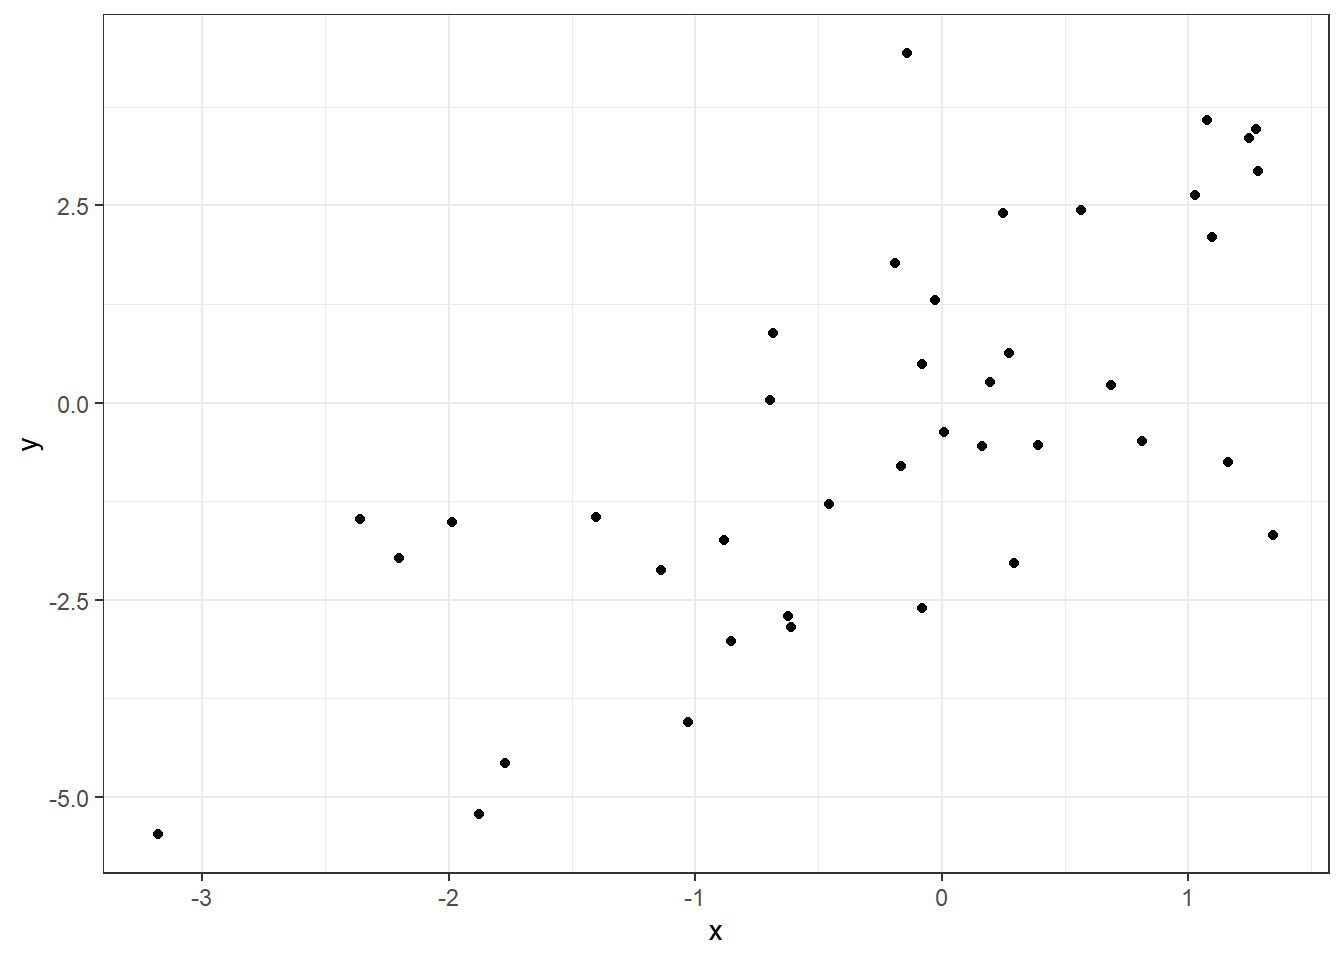
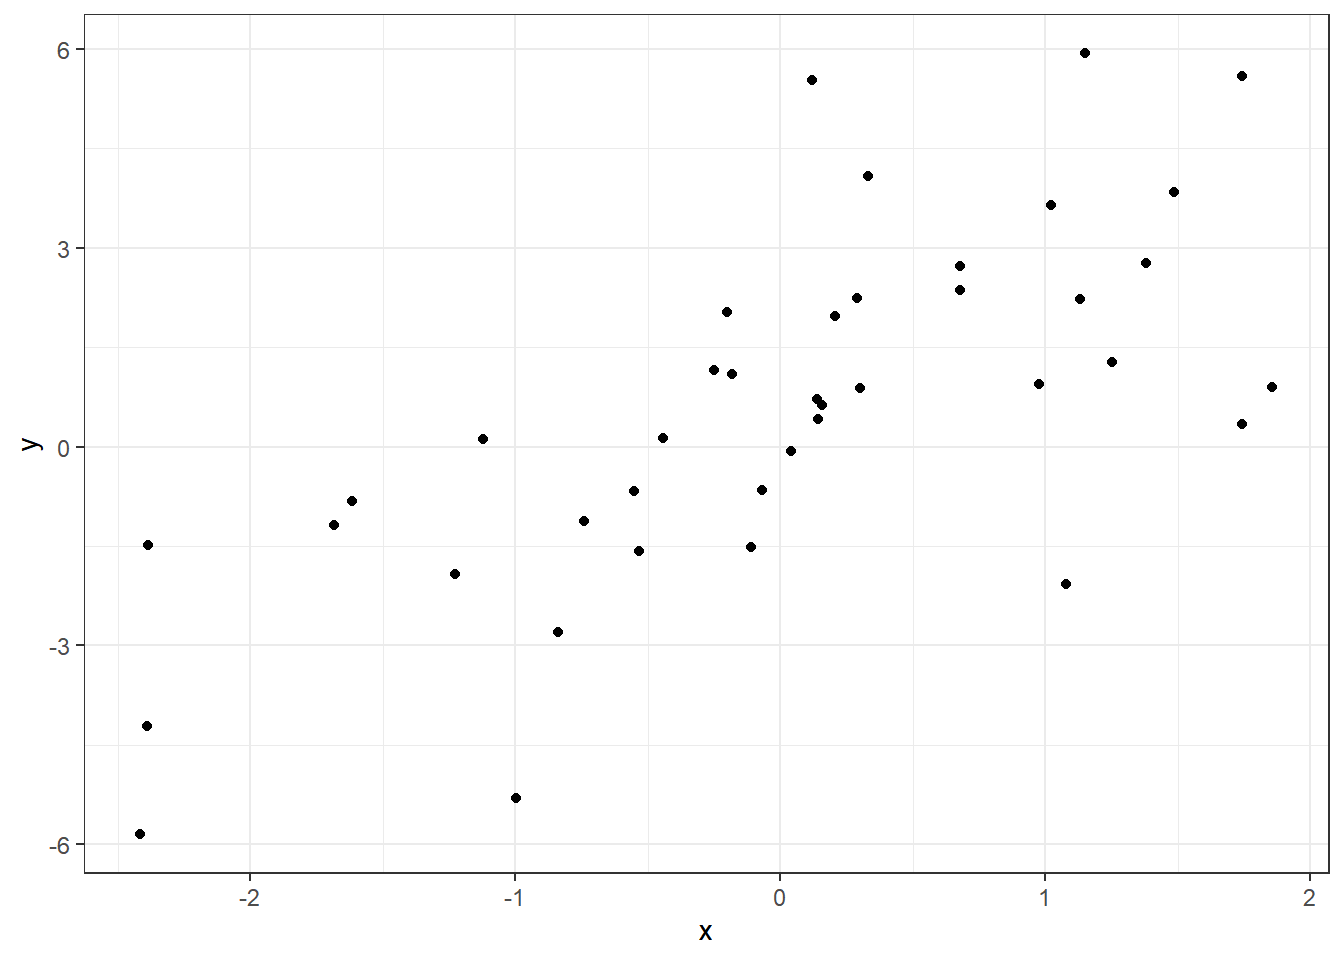
refactor: commit de teste

diff --git a/docs/index.html b/docs/index.html
@@ -221,12 +221,6 @@ pre > code.sourceCode > span > a:first-child::before { text-decoration: underlin
 <div class="cell">
 <div class="sourceCode cell-code" id="cb1"><pre class="sourceCode r code-with-copy"><code class="sourceCode r"><span id="cb1-1"><a href="#cb1-1" aria-hidden="true" tabindex="-1"></a><span class="fu">library</span>(tidyverse)</span></code><button title="Copy to Clipboard" class="code-copy-button"><i class="bi"></i></button></pre></div>
 <div class="cell-output cell-output-stderr">
-<pre><code>Warning: package 'tidyverse' was built under R version 4.3.3</code></pre>
-</div>
-<div class="cell-output cell-output-stderr">
-<pre><code>Warning: package 'tidyr' was built under R version 4.3.3</code></pre>
-</div>
-<div class="cell-output cell-output-stderr">
 <pre><code>── Attaching core tidyverse packages ──────────────────────── tidyverse 2.0.0 ──
 ✔ dplyr     1.1.4     ✔ readr     2.1.4
 ✔ forcats   1.0.0     ✔ stringr   1.5.1
@@ -238,10 +232,10 @@ pre > code.sourceCode > span > a:first-child::before { text-decoration: underlin
 ✖ dplyr::lag()    masks stats::lag()
 ℹ Use the conflicted package (&lt;http://conflicted.r-lib.org/&gt;) to force all conflicts to become errors</code></pre>
 </div>
-<div class="sourceCode cell-code" id="cb5"><pre class="sourceCode r code-with-copy"><code class="sourceCode r"><span id="cb5-1"><a href="#cb5-1" aria-hidden="true" tabindex="-1"></a>x <span class="ot">&lt;-</span> <span class="fu">rnorm</span>(<span class="at">n =</span> <span class="dv">40</span>)</span>
-<span id="cb5-2"><a href="#cb5-2" aria-hidden="true" tabindex="-1"></a>y <span class="ot">&lt;-</span> <span class="fl">1.5</span><span class="sc">*</span>x <span class="sc">+</span> <span class="fu">rnorm</span>(<span class="dv">0</span>, <span class="dv">2</span>, <span class="at">n =</span> <span class="dv">40</span>)</span>
-<span id="cb5-3"><a href="#cb5-3" aria-hidden="true" tabindex="-1"></a>d <span class="ot">&lt;-</span> <span class="fu">data.frame</span>(x,y)</span>
-<span id="cb5-4"><a href="#cb5-4" aria-hidden="true" tabindex="-1"></a>d <span class="sc">%&gt;%</span> <span class="fu">ggplot</span>(<span class="fu">aes</span>(<span class="at">x =</span> x, <span class="at">y =</span> y)) <span class="sc">+</span> <span class="fu">geom_point</span>() <span class="sc">+</span> <span class="fu">theme_bw</span>()</span></code><button title="Copy to Clipboard" class="code-copy-button"><i class="bi"></i></button></pre></div>
+<div class="sourceCode cell-code" id="cb3"><pre class="sourceCode r code-with-copy"><code class="sourceCode r"><span id="cb3-1"><a href="#cb3-1" aria-hidden="true" tabindex="-1"></a>x <span class="ot">&lt;-</span> <span class="fu">rnorm</span>(<span class="at">n =</span> <span class="dv">40</span>)</span>
+<span id="cb3-2"><a href="#cb3-2" aria-hidden="true" tabindex="-1"></a>y <span class="ot">&lt;-</span> <span class="fl">1.5</span><span class="sc">*</span>x <span class="sc">+</span> <span class="fu">rnorm</span>(<span class="dv">0</span>, <span class="dv">2</span>, <span class="at">n =</span> <span class="dv">40</span>)</span>
+<span id="cb3-3"><a href="#cb3-3" aria-hidden="true" tabindex="-1"></a>d <span class="ot">&lt;-</span> <span class="fu">data.frame</span>(x,y)</span>
+<span id="cb3-4"><a href="#cb3-4" aria-hidden="true" tabindex="-1"></a>d <span class="sc">%&gt;%</span> <span class="fu">ggplot</span>(<span class="fu">aes</span>(<span class="at">x =</span> x, <span class="at">y =</span> y)) <span class="sc">+</span> <span class="fu">geom_point</span>() <span class="sc">+</span> <span class="fu">theme_bw</span>()</span></code><button title="Copy to Clipboard" class="code-copy-button"><i class="bi"></i></button></pre></div>
 <div class="cell-output-display">
 <div>
 <figure class="figure">
